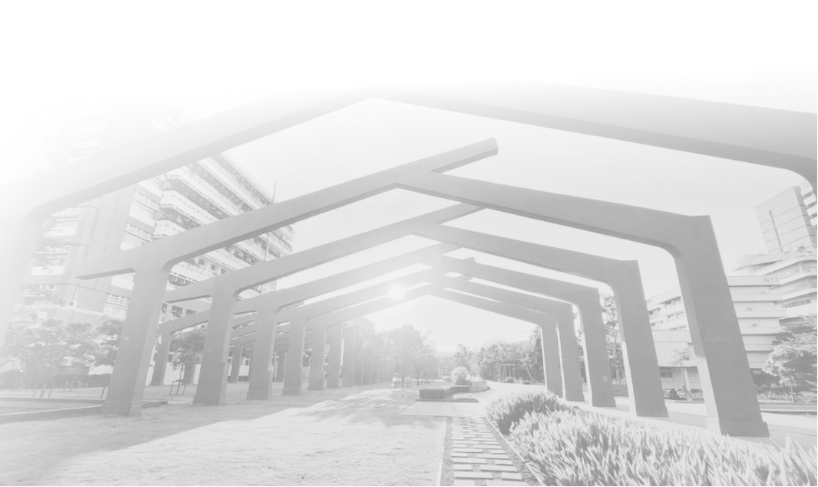
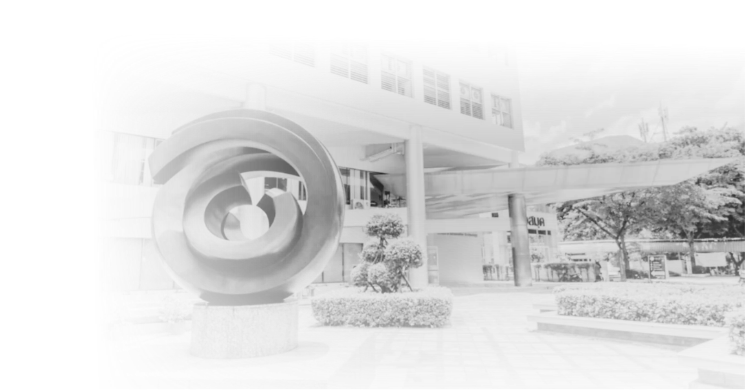
make activities page responsive across devices

diff --git a/index.html b/index.html
@@ -27,6 +27,68 @@
             overflow: hidden;
         }
 
+        /* ------------------ PRELOADER / WELCOME SCREEN ------------------ */
+        .welcome-preloader {
+            position: fixed;
+            inset: 0;
+            width: 100vw;
+            height: 100dvh;
+            background: linear-gradient(135deg, #f25525 0%, #e74011 55%, #c73208 100%);
+            z-index: 10000;
+            display: flex;
+            flex-direction: column;
+            justify-content: center;
+            align-items: center;
+            gap: 28px;
+            padding: 24px;
+            text-align: center;
+            opacity: 1;
+            visibility: visible;
+            transition: opacity 0.8s cubic-bezier(0.16, 1, 0.3, 1), visibility 0.8s ease;
+        }
+
+        .welcome-preloader.fade-out {
+            opacity: 0;
+            visibility: hidden;
+            pointer-events: none;
+        }
+
+        .welcome-text {
+            color: #ffffff;
+            font-size: clamp(22px, 3.8vw, 38px);
+            font-weight: 700;
+            letter-spacing: 0.02em;
+            line-height: 1.4;
+            text-shadow: 0 4px 20px rgba(0, 0, 0, 0.15);
+            animation: welcomeFadeUp 0.7s cubic-bezier(0.16, 1, 0.3, 1) forwards;
+        }
+
+        .loader-spinner {
+            width: 46px;
+            height: 46px;
+            border: 4px solid rgba(255, 255, 255, 0.28);
+            border-top-color: #ffffff;
+            border-radius: 50%;
+            animation: spinLoader 0.85s linear infinite;
+        }
+
+        @keyframes spinLoader {
+            to {
+                transform: rotate(360deg);
+            }
+        }
+
+        @keyframes welcomeFadeUp {
+            from {
+                opacity: 0;
+                transform: translateY(14px);
+            }
+            to {
+                opacity: 1;
+                transform: translateY(0);
+            }
+        }
+
         /* กรอบหน้าเว็บหลัก */
         .page-container {
             position: relative;
@@ -47,7 +109,7 @@
             transform: translateY(-50%);
             width: 100%;
             height: 68%;
-            background-image: url('pic/KMUTT.png');
+            background-image: url('pic/KMUTTBG.png');
             background-size: cover;
             background-position: center;
             z-index: 2;
@@ -428,6 +490,12 @@
 </head>
 <body>
 
+    <!-- หน้าโหลดต้อนรับคณะกรรมการ -->
+    <div class="welcome-preloader" id="welcomePreloader">
+        <p class="welcome-text">ยินดีต้อนรับท่านคณะกรรมการทุกท่าน</p>
+        <div class="loader-spinner" aria-label="กำลังโหลด"></div>
+    </div>
+
     <div class="page-container">
         <!-- ภาพพื้นหลังตรึงตำแหน่ง -->
         <div class="header-bg"></div>
@@ -553,6 +621,18 @@
     </div>
 
     <script>
+        // ควบคุมหน้าโหลดต้อนรับให้ค่อยๆ จางหายไปเมื่อโหลดเสร็จ
+        window.addEventListener('load', function () {
+            const preloader = document.getElementById('welcomePreloader');
+            setTimeout(function () {
+                preloader.classList.add('fade-out');
+                // ลบออกจาก DOM หลังแอนิเมชันจางจบเพื่อไม่ให้กินทรัพยากรเครื่อง
+                setTimeout(function () {
+                    preloader.remove();
+                }, 850);
+            }, 1800); // แสดงค้างไว้ 1.8 วินาทีก่อนเริ่มจาง (ปรับตัวเลขนี้ได้ตามต้องการ)
+        });
+
         function openLightbox(imgElement) {
             const overlay = document.getElementById('lightboxOverlay');
             const lightboxImg = document.getElementById('lightboxImg');
